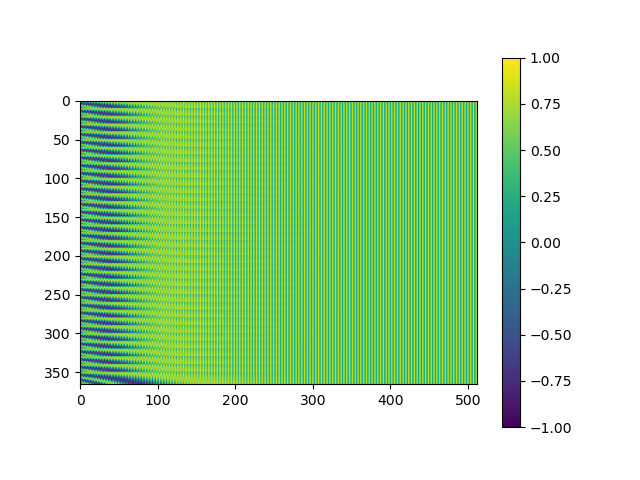
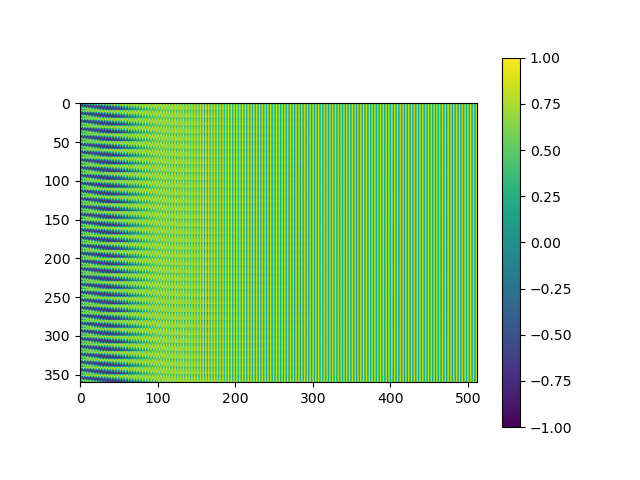
update AgentEmbedding

Changed region(s): [[0.0625, 0.1875, 0.75, 0.8438]]

diff --git a/model/transformer/base_transformer_input_flattened_only1pe_ae.py b/model/transformer/base_transformer_input_flattened_only1pe_ae.py
@@ -57,10 +57,11 @@ class AgentEmbedding(nn.Module):
         # print(x.shape)
         ae = self.ae[:, : self.look_back]
         ae_control_features = self.ae[:, self.look_back : self.look_back + self.num_control_features]
-        num_a = int((x.size(1) - self.num_control_features) / self.look_back)
+        # num_a = int((x.size(1) - self.num_control_features) / self.look_back)
+        num_a = int(x.size(1) / self.look_back)
         # print(num_a)
         ae = ae.repeat(1, num_a, 1)
-        ae = torch.cat([ae, ae_control_features], dim=1)
+        # ae = torch.cat([ae, ae_control_features], dim=1)
         # print(ae.shape)
         return ae[:, : x.size(1)]
 
@@ -197,6 +198,17 @@ class BaseTransformer(nn.Module):
 
     def forward(self, input, spec):
         x = self.input_embedding(input)
+        x += self.agent_embedding(x)
+
+        """
+        # agent embedding visualization
+        ae = self.agent_embedding(x).to("cpu").detach().numpy().copy()
+        print("ae", ae.shape)
+        fig = plt.figure()
+        plt.imshow(ae[0])
+        plt.colorbar()
+        plt.savefig("img/agent_embedding_input_flattened.png")
+        """
 
         spec = torch.unsqueeze(spec, 1)  # bx9 -> bx1x9
         spec = torch.unsqueeze(spec, 1)  # bx1x9 -> bx1x1x9
@@ -210,17 +222,6 @@ class BaseTransformer(nn.Module):
 
         x = torch.cat((x, spec_emb_all), dim=1)
 
-        """
-        # agent embedding visualization
-        ae = self.agent_embedding(x).to("cpu").detach().numpy().copy()
-        print("ae", ae.shape)
-        fig = plt.figure()
-        plt.imshow(ae[0])
-        plt.colorbar()
-        plt.savefig("img/agent_embedding_input_flattened.png")
-        """
-
-        x += self.agent_embedding(x)
         x = self.dropout(x)
         x = self.transformer(x)
         x = x.mean(dim=1)

diff --git a/model/transformer/base_transformer_input_3types_only1pe_ae.py b/model/transformer/base_transformer_input_3types_only1pe_ae.py
@@ -55,11 +55,12 @@ class AgentEmbedding(nn.Module):
     def forward(self, x):
         # print(x.shape)
         ae = self.ae[:, : self.look_back]
-        ae_control_features = self.ae[:, self.look_back : self.look_back + self.num_control_features]
-        num_a = int((x.size(1) - self.num_control_features) / self.look_back)
+        # ae_control_features = self.ae[:, self.look_back : self.look_back + self.num_control_features]
+        # num_a = int((x.size(1) - self.num_control_features) / self.look_back)
+        num_a = int(x.size(1) / self.look_back)
         # print(num_a)
         ae = ae.repeat(1, num_a, 1)
-        ae = torch.cat([ae, ae_control_features], dim=1)
+        # ae = torch.cat([ae, ae_control_features], dim=1)
         # print(ae.shape)
         return ae[:, : x.size(1)]
 
@@ -212,6 +213,7 @@ class BaseTransformer(nn.Module):
 
     def forward(self, input, spec):
         x = self.input_embedding(input)
+        x += self.agent_embedding(x)
 
         spec = torch.unsqueeze(spec, 1)  # bx9 -> bx1x9
         spec = torch.unsqueeze(spec, 1)  # bx1x9 -> bx1x1x9
@@ -236,7 +238,6 @@ class BaseTransformer(nn.Module):
         plt.savefig("img/agent_embedding_input_3types.png")
         """
 
-        x += self.agent_embedding(x)
         x = self.dropout(x)
         x = self.transformer(x)
         x = x.mean(dim=1)

diff --git a/utils/utiles.py b/utils/utiles.py
@@ -30,10 +30,10 @@ model_list = {
     "LSTM_input_3types",
     "LSTM_input_flattened",
     "LSTM_input_individually",
-    "BaseTransformer",
+    # "BaseTransformer",
     "BaseTransformer_only1pe",
     "BaseTransformer_input_sensor_first",
-    "BaseTransformer_input_sensor_first_only1pe",
+    # "BaseTransformer_input_sensor_first_only1pe",
     "BaseTransformer_input_3types",
     "BaseTransformer_input_3types_only1pe",
     "BaseTransformer_input_3types_only1pe_ae",
